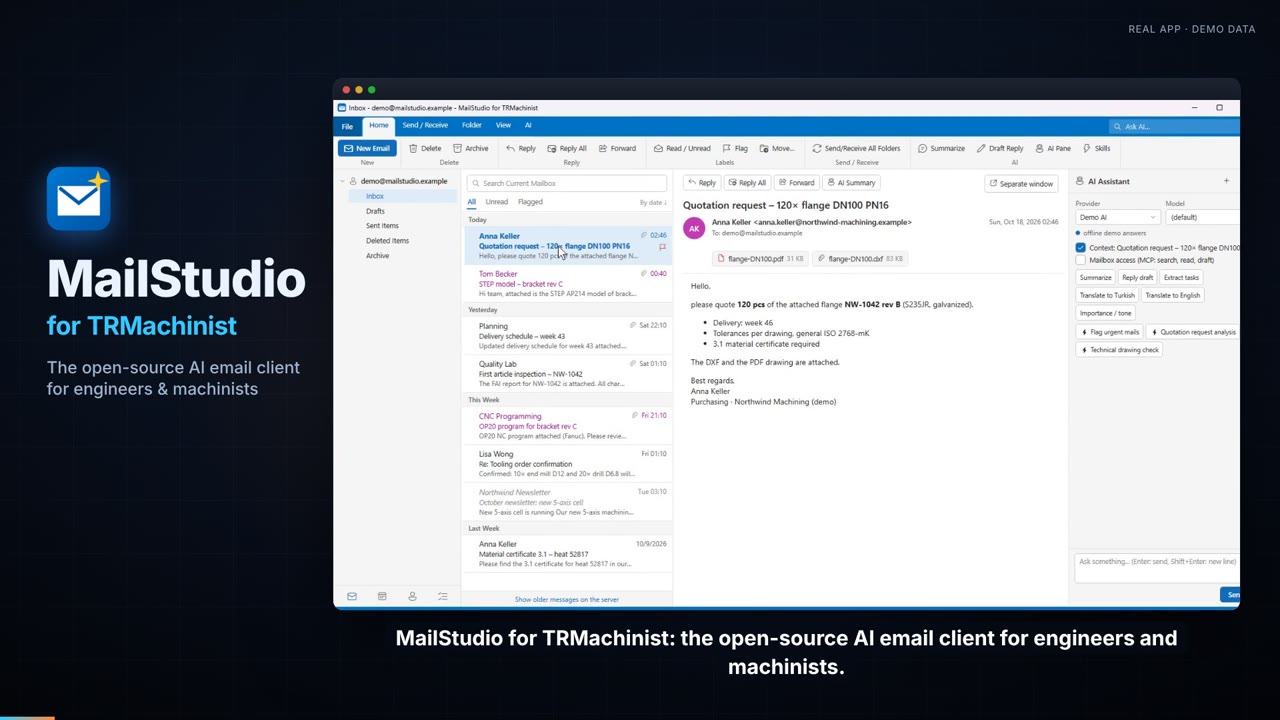
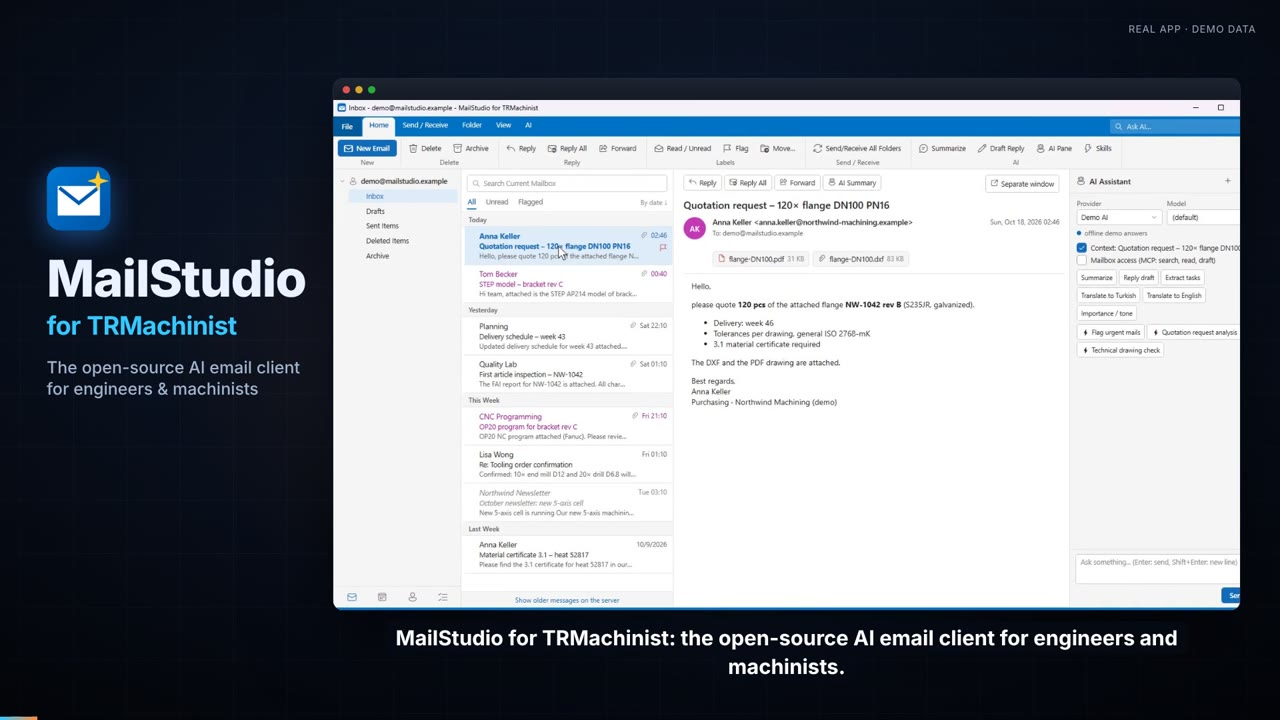
README: 90-second demo

diff --git a/README.tr.md b/README.tr.md
@@ -16,9 +16,9 @@ STEP, DXF/DWG, PDF teknik resim, Office dosyaları ve CNC programlarını doğru
 
 [English](README.md) · **Türkçe**
 
-<a href="https://github.com/TRMachinist/MailStudio-AI-Email-Client/releases/download/v1.6.0/MailStudio_Demo_TR_1920x1080.mp4"><img src="docs/media/tr/demo-video.jpg" alt="60 saniyelik tanıtım videosu" width="100%"></a>
+<a href="https://github.com/TRMachinist/MailStudio-AI-Email-Client/releases/download/v1.6.0/MailStudio_Demo_TR_1920x1080.mp4"><img src="docs/media/tr/demo-video.jpg" alt="90 saniyelik tanıtım videosu" width="100%"></a>
 
-**▶ [60 saniyelik tanıtım videosunu izleyin](https://github.com/TRMachinist/MailStudio-AI-Email-Client/releases/download/v1.6.0/MailStudio_Demo_TR_1920x1080.mp4)** · [dikey](https://github.com/TRMachinist/MailStudio-AI-Email-Client/releases/download/v1.6.0/MailStudio_Demo_TR_1080x1920.mp4) · [English](https://github.com/TRMachinist/MailStudio-AI-Email-Client/releases/download/v1.6.0/MailStudio_Demo_EN_1920x1080.mp4)
+**▶ [90 saniyelik tanıtım videosunu izleyin](https://github.com/TRMachinist/MailStudio-AI-Email-Client/releases/download/v1.6.0/MailStudio_Demo_TR_1920x1080.mp4)** · [dikey](https://github.com/TRMachinist/MailStudio-AI-Email-Client/releases/download/v1.6.0/MailStudio_Demo_TR_1080x1920.mp4) · [English](https://github.com/TRMachinist/MailStudio-AI-Email-Client/releases/download/v1.6.0/MailStudio_Demo_EN_1920x1080.mp4)
 
 </div>
 

diff --git a/README.md b/README.md
@@ -18,9 +18,9 @@ Open STEP, DXF/DWG, PDF drawings, Office files and CNC programs right from your 
 
 **English** · [Türkçe](README.tr.md)
 
-<a href="https://github.com/TRMachinist/MailStudio-AI-Email-Client/releases/download/v1.6.0/MailStudio_Demo_EN_1920x1080.mp4"><img src="docs/media/demo-video.jpg" alt="Watch the 60-second demo" width="100%"></a>
+<a href="https://github.com/TRMachinist/MailStudio-AI-Email-Client/releases/download/v1.6.0/MailStudio_Demo_EN_1920x1080.mp4"><img src="docs/media/demo-video.jpg" alt="Watch the 90-second demo" width="100%"></a>
 
-**▶ [Watch the 60-second demo](https://github.com/TRMachinist/MailStudio-AI-Email-Client/releases/download/v1.6.0/MailStudio_Demo_EN_1920x1080.mp4)** · [vertical](https://github.com/TRMachinist/MailStudio-AI-Email-Client/releases/download/v1.6.0/MailStudio_Demo_EN_1080x1920.mp4) · [Türkçe](https://github.com/TRMachinist/MailStudio-AI-Email-Client/releases/download/v1.6.0/MailStudio_Demo_TR_1920x1080.mp4)
+**▶ [Watch the 90-second demo](https://github.com/TRMachinist/MailStudio-AI-Email-Client/releases/download/v1.6.0/MailStudio_Demo_EN_1920x1080.mp4)** · [vertical](https://github.com/TRMachinist/MailStudio-AI-Email-Client/releases/download/v1.6.0/MailStudio_Demo_EN_1080x1920.mp4) · [Türkçe](https://github.com/TRMachinist/MailStudio-AI-Email-Client/releases/download/v1.6.0/MailStudio_Demo_TR_1920x1080.mp4)
 
 </div>
 

diff --git a/tools/demo/film/README.md b/tools/demo/film/README.md
@@ -1,4 +1,4 @@
-# Demo film (≤ 60 s, English + Turkish)
+# Demo film (≤ 90 s, English + Turkish)
 
 Everything in the film is the real app running on the demo mailbox — no real mail.
 
